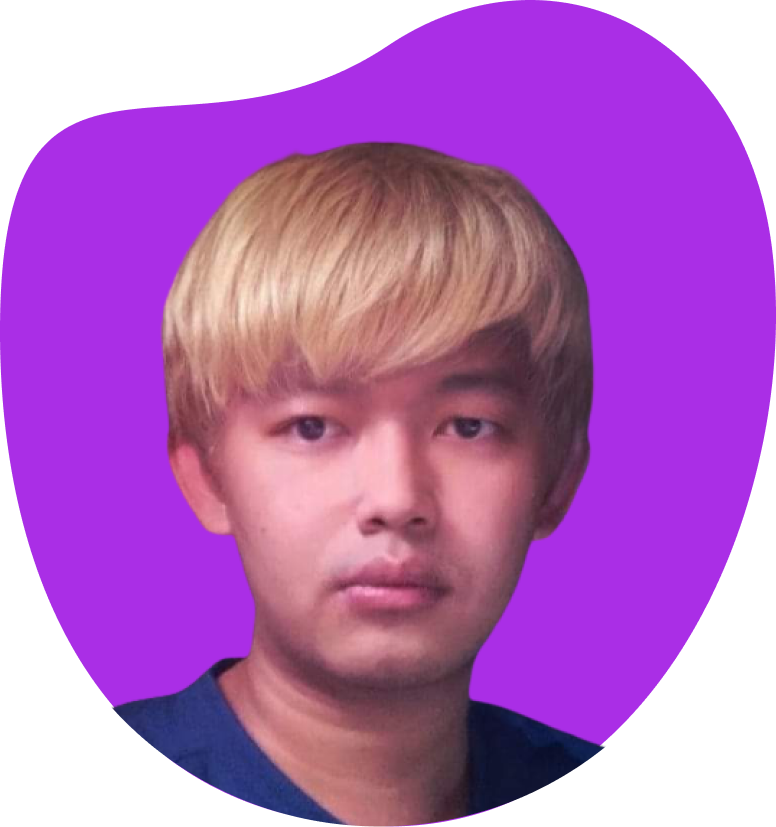
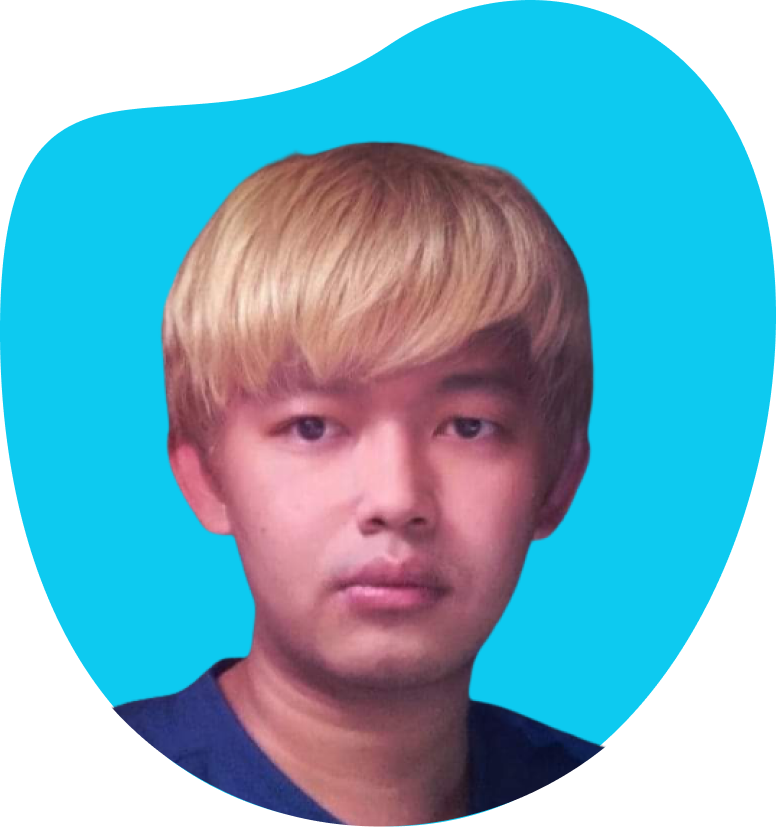
mengganti gambar profile dan memodifikasi file index.html

diff --git a/index.html b/index.html
@@ -43,7 +43,7 @@
               <h1 class="text-info text-uppercase fs-1 fw-bold">Web Developer</h1>
               <h2 class="fs-4">Dede Nurdiyanto</h2>
               <p class="mt-4 text-muted">Lorem ipsum dolor sit, amet consectetur adipisicing elit. Blanditiis dignissimos architecto veritatis aliquid facere voluptatem nihil dolor similique perspiciatis voluptas!</p>
-              <a href="#portfolio" class="btn btn-info px-3 mt-3 text-white">My Work</a>
+              <a href="#portfolio" class="btn btn-info px-3 mt-3 text-white">My Portfolio</a>
             </div>
           </div>
         </div>
@@ -63,7 +63,7 @@
         </div>
         <div class="row">
           <div class="col-md-6 pe-5">
-            <div class="about-text">
+            <div class="about-text text-center">
               <h3 class="fs-4 mb-3">Lorem ipsum dolor sit amet.</h3>
               <p class="text-muted">
                 Lorem ipsum dolor sit amet, consectetur adipisicing elit. Eum ut voluptas incidunt quaerat commodi earum illum consectetur. Distinctio fugiat cupiditate eius doloremque, voluptatum natus in et, nobis repudiandae eum
@@ -73,19 +73,19 @@
             <div class="row text-center text-uppercase my-3">
               <div class="col-sm-4">
                 <div class="fact-item">
-                  <h4 class="fs-1 fw-bold">100</h4>
+                  <h4 class="fs-1 fw-bold">20</h4>
                   <p class="text-muted">Project Complete</p>
                 </div>
               </div>
               <div class="col-sm-4">
                 <div class="fact-item">
-                  <h4 class="fs-1 fw-bold">90</h4>
+                  <h4 class="fs-1 fw-bold">15</h4>
                   <p class="text-muted">Happy Clients</p>
                 </div>
               </div>
               <div class="col-sm-4">
                 <div class="fact-item">
-                  <h4 class="fs-1 fw-bold">95</h4>
+                  <h4 class="fs-1 fw-bold">17</h4>
                   <p class="text-muted">Positive Reviews</p>
                 </div>
               </div>
@@ -122,7 +122,7 @@
               </div>
             </div>
             <div class="skill-item mb-5">
-              <h3 class="fs-6">PHP</h3>
+              <h3 class="fs-6">Node JS</h3>
               <div class="progress" style="height: 8px">
                 <div class="progress-bar bg-info" role="progressbar" style="width: 75%" aria-valuenow="75" aria-valuemin="0" aria-valuemax="100"></div>
               </div>
@@ -139,7 +139,7 @@
         <div class="row justify-content-center">
           <div class="col-lg-8">
             <div class="section-title text-center">
-              <h2 class="fw-bold mb-5">What I do</h2>
+              <h2 class="fw-bold mb-5">Our Services</h2>
             </div>
           </div>
         </div>
@@ -158,7 +158,7 @@
               <div class="icon my-3 text-info fs-2">
                 <i class="fas fa-lightbulb"></i>
               </div>
-              <h3 class="fs-5 py-2">UX Design</h3>
+              <h3 class="fs-5 py-2">UX/UX Design</h3>
               <p class="text-muted">Lorem ipsum dolor sit amet consectetur adipisicing elit. Ipsam, aspernatur.</p>
             </div>
           </div>
@@ -167,7 +167,7 @@
               <div class="icon my-3 text-info fs-2">
                 <i class="fas fa-image"></i>
               </div>
-              <h3 class="fs-5 py-2">UI Design</h3>
+              <h3 class="fs-5 py-2">Graphic Design</h3>
               <p class="text-muted">Lorem ipsum dolor sit amet consectetur adipisicing elit. Ipsam, aspernatur.</p>
             </div>
           </div>
@@ -182,7 +182,7 @@
         <div class="row justify-content-center">
           <div class="col-lg-8">
             <div class="section-title text-center">
-              <h2 class="fw-bold mb-5">Latest Works</h2>
+              <h2 class="fw-bold mb-5">Lates Portfolios</h2>
             </div>
           </div>
         </div>
@@ -191,21 +191,21 @@
             <div class="portfolio-item">
               <img src="img/portfolio/1.jpg" class="w-100 img-thumbnail" alt="portfolio item" />
               <h3 class="text-capitalize fs-5 my-2">Landing Page</h3>
-              <p class="mb-4"><a href="#" class="text-info text-decoration-none">Live Demo</a></p>
+              <p class="mb-4"><a href="#" class="btn btn-info px-3 mt-3 text-white">Watch Demo</a></p>
             </div>
           </div>
           <div class="col-md-6 col-lg-4">
             <div class="portfolio-item">
               <img src="img/portfolio/2.jpg" class="w-100 img-thumbnail" alt="portfolio item" />
               <h3 class="text-capitalize fs-5 my-2">Online Shop</h3>
-              <p class="mb-4"><a href="#" class="text-info text-decoration-none">Live Demo</a></p>
+              <p class="mb-4"><a href="#" class="btn btn-info px-3 mt-3 text-white">Watch Demo</a></p>
             </div>
           </div>
           <div class="col-md-6 col-lg-4">
             <div class="portfolio-item">
               <img src="img/portfolio/3.jpg" class="w-100 img-thumbnail" alt="portfolio item" />
               <h3 class="text-capitalize fs-5 my-2">Company Profile</h3>
-              <p class="mb-4"><a href="#" class="text-info text-decoration-none">Live Demo</a></p>
+              <p class="mb-4"><a href="#" class="btn btn-info px-3 mt-3 text-white">Watch Demo</a></p>
             </div>
           </div>
         </div>
@@ -390,7 +390,7 @@
       <div class="container-lg">
         <div class="row">
           <div class="col-lg-12">
-            <p class="m-0 text-center text-muted">&copy; 2021 Dede Nurdiyanto</p>
+            <p class="m-0 text-center text-muted">&copy; 2021 Dede Nurdiyanto - Task Bootstrap</p>
           </div>
         </div>
       </div>
